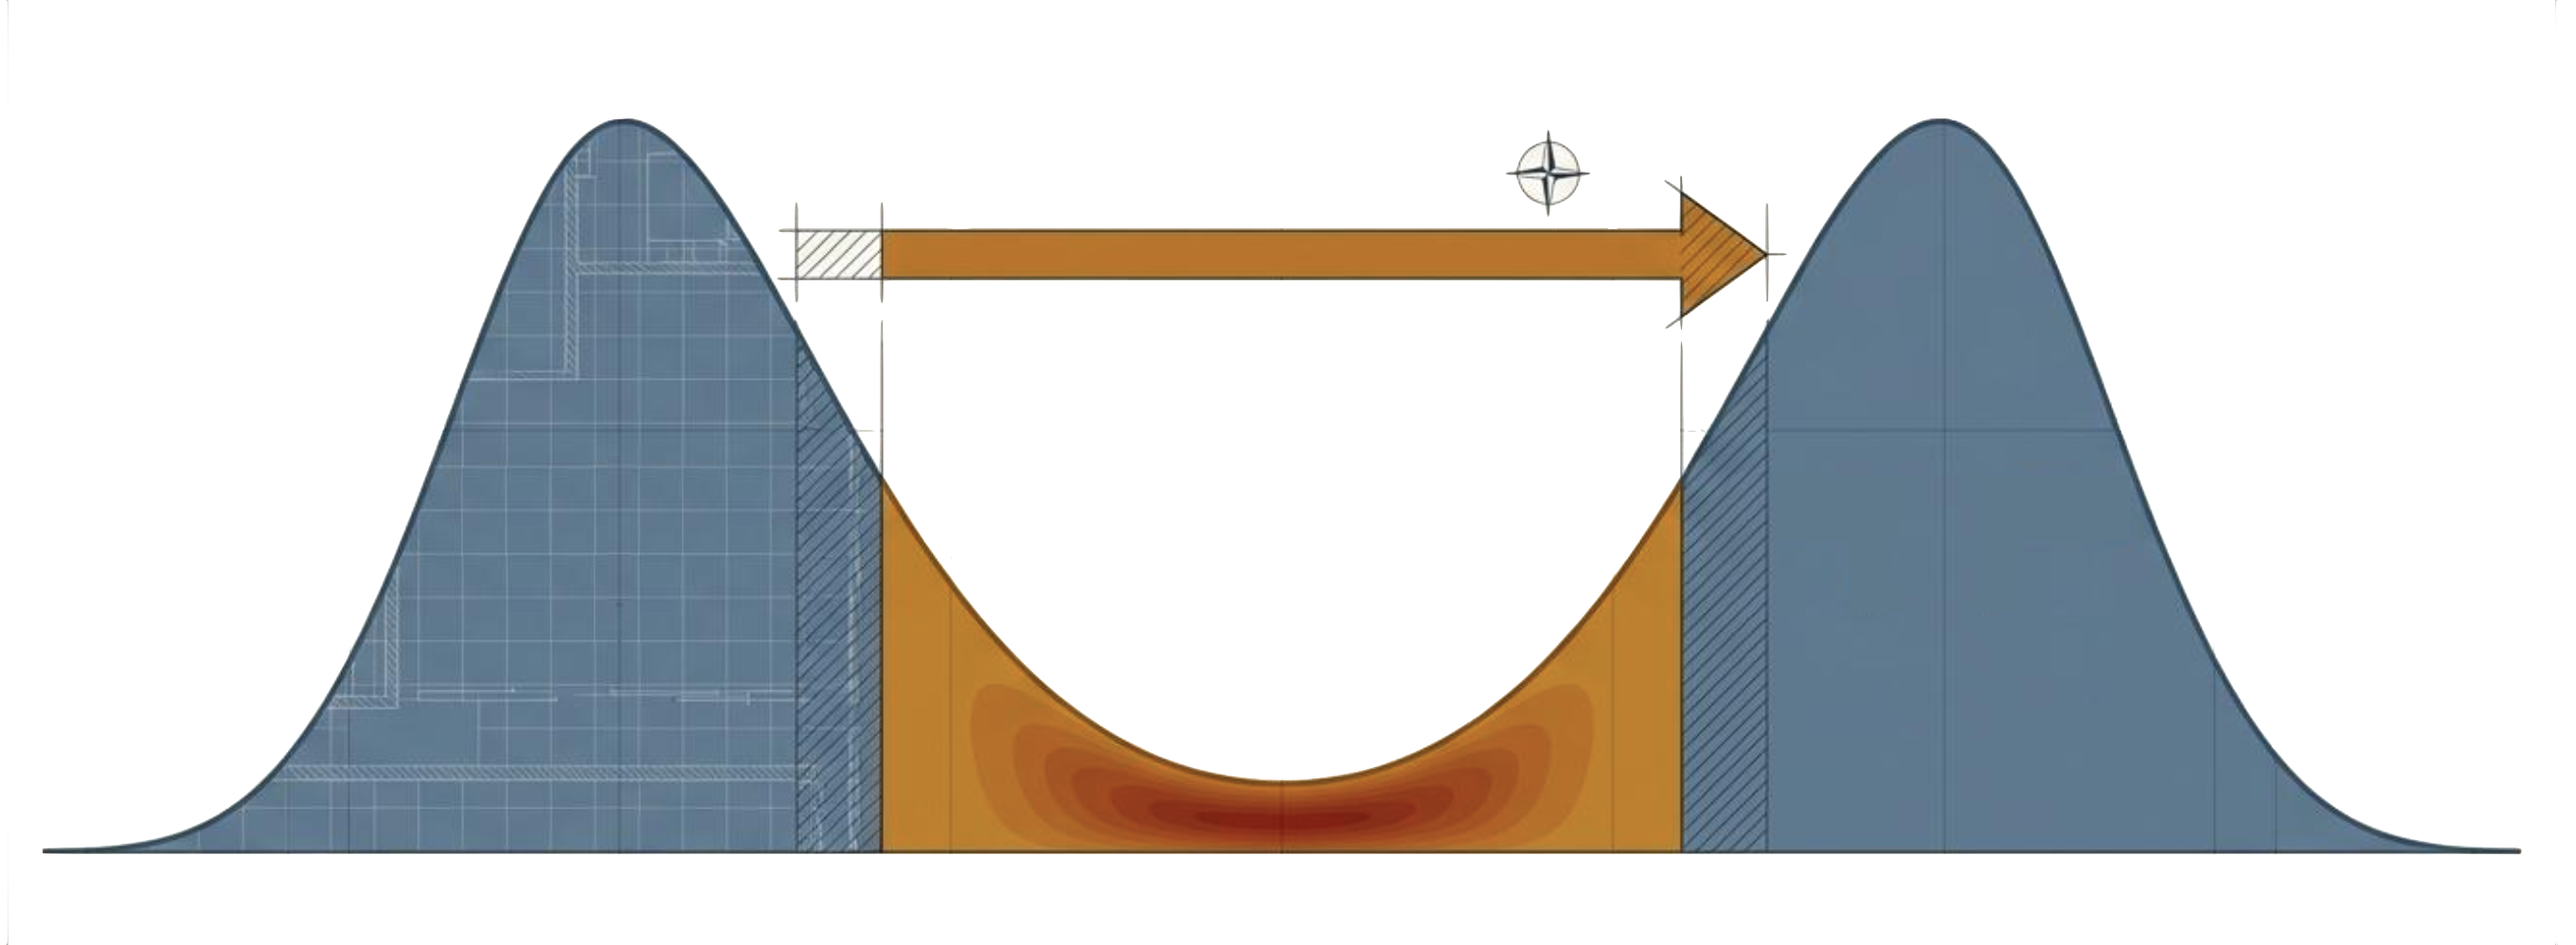
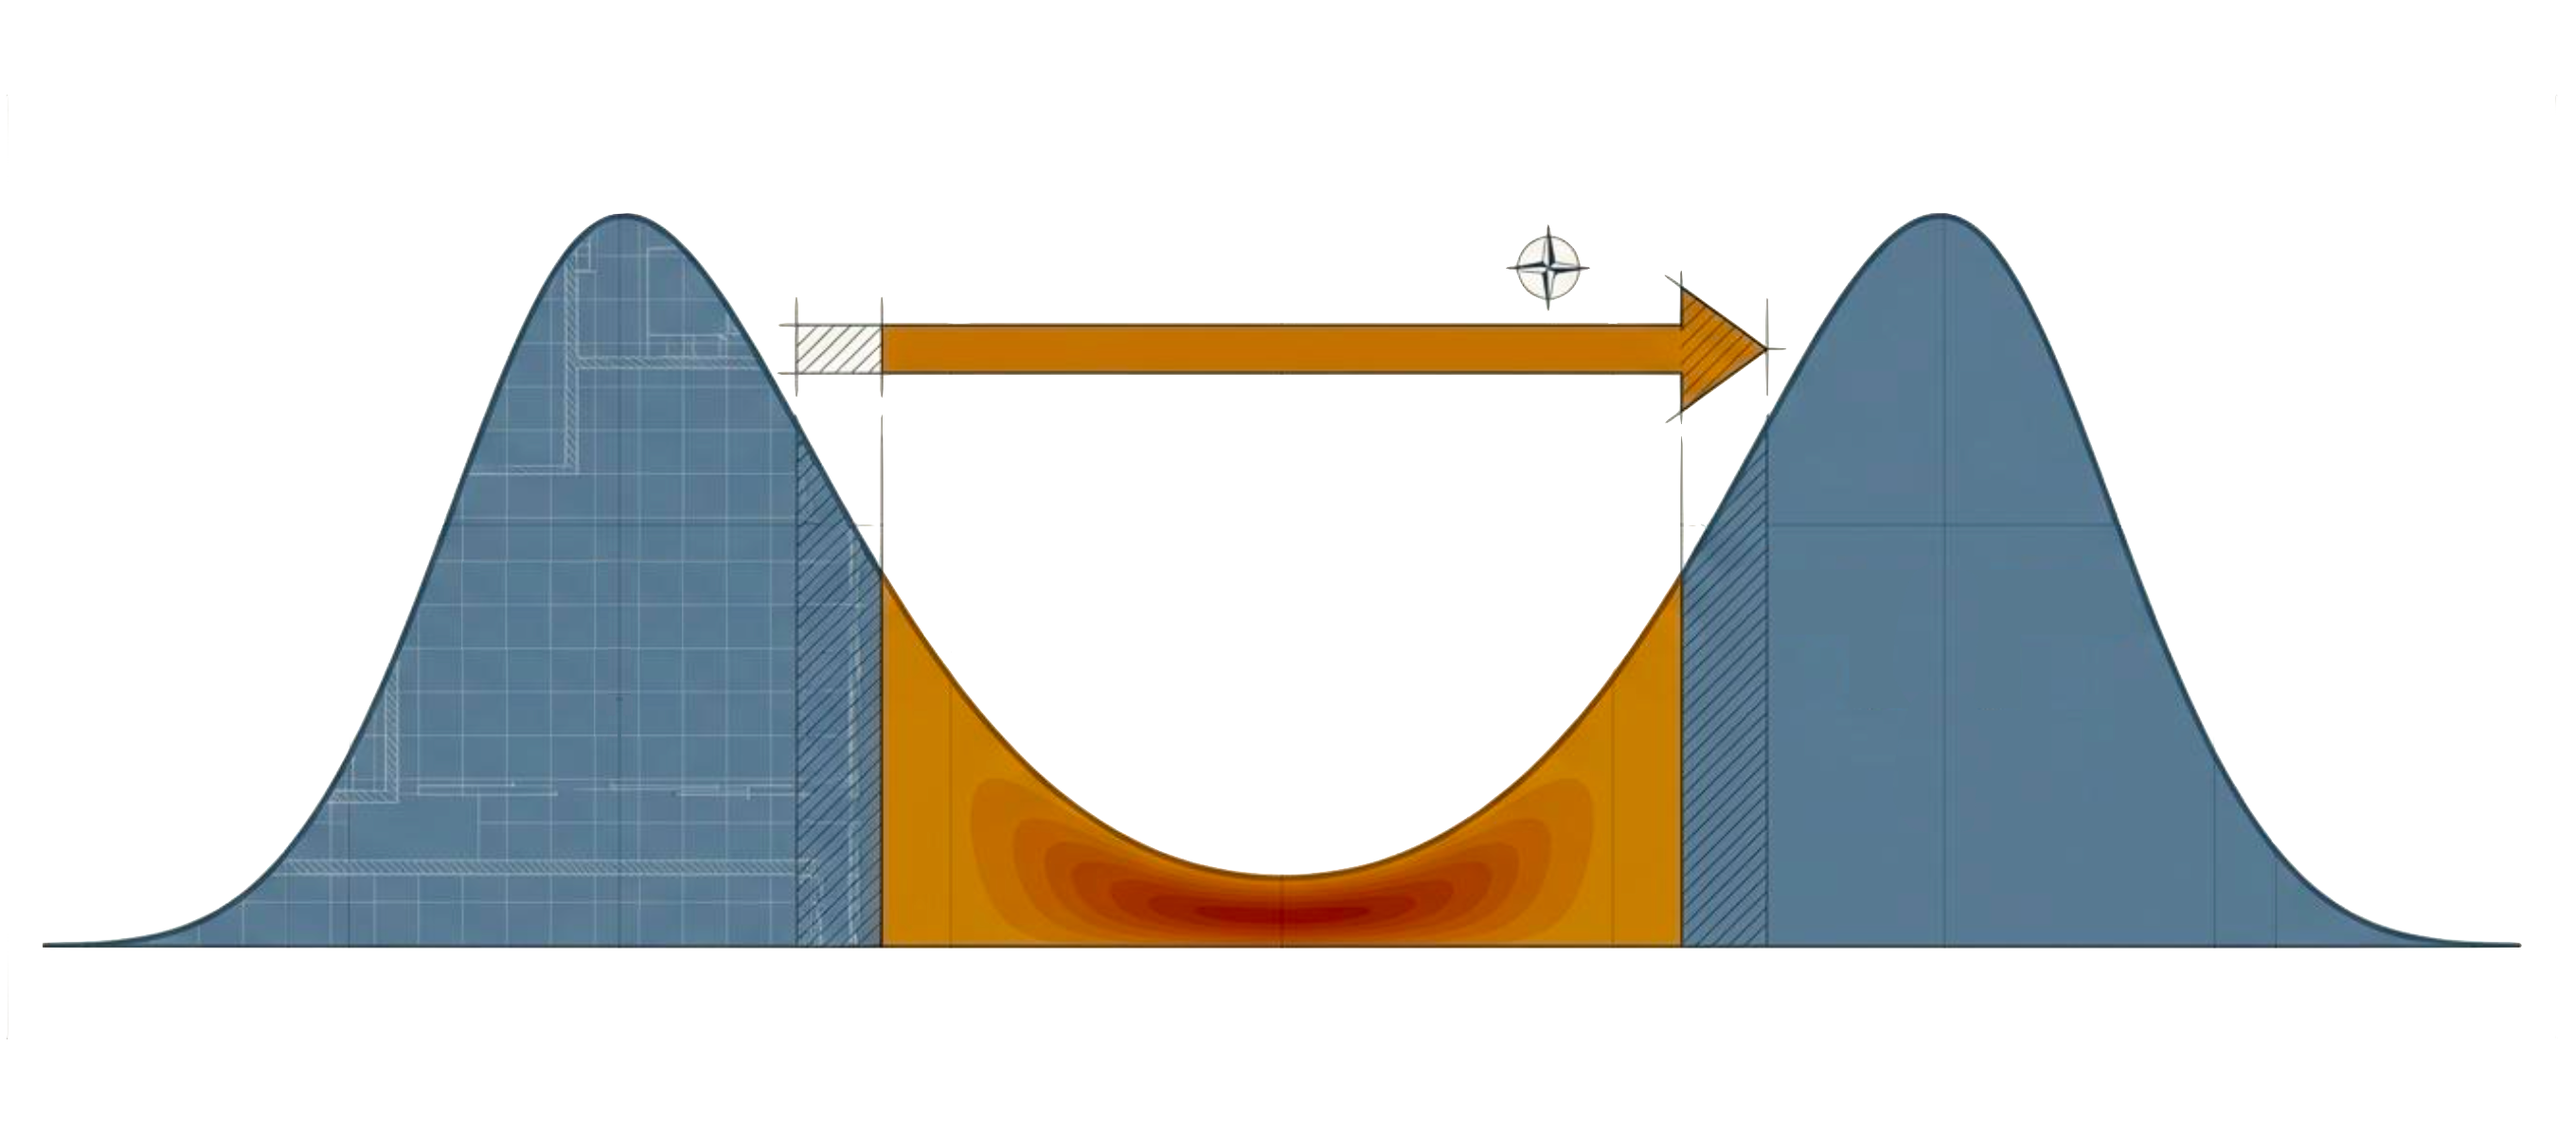
fixed leftover overflow issues + img size issues

diff --git a/src/pages/process/style.css b/src/pages/process/style.css
@@ -1,5 +1,5 @@
 * {
-    /* outline: 1px solid red; */
+    outline: 1px solid red;
 }
 
 .bold {
@@ -224,7 +224,7 @@
 /* container */
 #vc-analogy .fig-container {
     width: var(--vc-width);
-    aspect-ratio: 3 / 1;
+    aspect-ratio: 2754 / 838;
     --base-width: var(--vc-bw);
 }
 #vc-analogy .fig-container .fig-img {
@@ -233,6 +233,7 @@
 #vc-analogy .fig-container .part {
     /* text vertical align */
     /* align-content: center; */
+    /* font-size: calc(16 * 100cqw / var(--base-width)); */
 }
 /* parts */
 #vc-analogy .fig-container .p1 {
@@ -320,8 +321,7 @@
 /* container */
 #organization-gap .fig-container {
     width: var(--graph-width);
-    aspect-ratio: 2720 / 998;
-    margin-bottom: 100px;
+    aspect-ratio: 2720 / 1198;
     --base-width: var(--graph-bw);
 }
 #organization-gap .fig-container .fig-img {
@@ -334,7 +334,7 @@
 /* parts */
 #organization-gap .fig-container .top {
     transform: translate(-50%, -50%);
-    top: 20%;
+    top: 23%;
     left: 50%;
     width: 17%;
     height: 10%;
@@ -342,7 +342,7 @@
 }
 #organization-gap .fig-container .center {
     transform: translate(-50%, -50%);
-    bottom: 15%;
+    bottom: 20%;
     left: 50%;
     width: 20%;
     height: 20%;
@@ -350,7 +350,7 @@
 }
 #organization-gap .fig-container .left {
     transform: translate(-50%, -50%);
-    bottom: 15%;
+    bottom: 20%;
     left: 24%;
     width: 20%;
     height: 20%;
@@ -358,18 +358,18 @@
 }
 #organization-gap .fig-container .right {
     transform: translate(-50%, -50%);
-    bottom: 15%;
+    bottom: 20%;
     left: 76%;
     width: 20%;
     height: 20%;
     color: white;
 }
 #organization-gap .fig-container .bot {
-    transform: translate(-50%, -50%);
-    bottom: -30%;
+    transform: translateX(-50%);
+    bottom: 0%;
     left: 50%;
     width: 70%;
-    height: 20%;
+    height: 13%;
 }
 
 
@@ -595,7 +595,7 @@
 
 
 
-@media (max-width: 1200px) {
+@media (max-width: 1350px) {
     :root {
         --hex-width: 90vw;
         --vc-width: 90vw;
